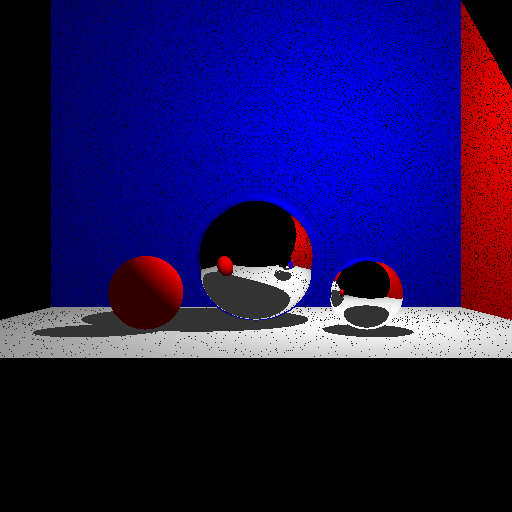
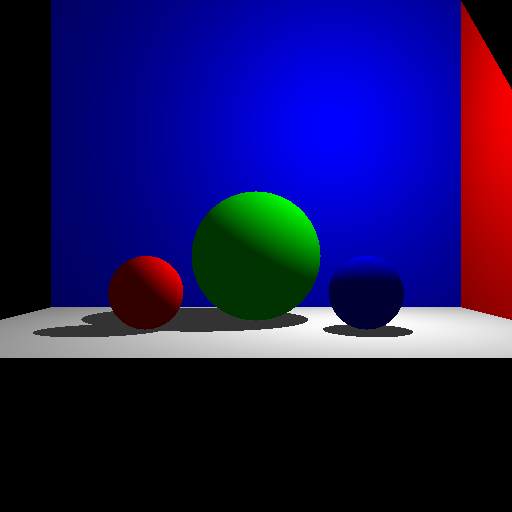
Shadows Fully Fix

diff --git a/Ray3/main.c b/Ray3/main.c
@@ -268,7 +268,7 @@ RayHit collision(RayHit* rayHitArr, Ray ray, Sphere* sphereArr, Triangle* triang
   }
   
   //realRay = rayHitArr[0];
-  
+  int secondMax;
   float t = -1;
   for(int j = 0; j < sphereArrSize + triangleArrSize; j++) {
     
@@ -279,11 +279,14 @@ RayHit collision(RayHit* rayHitArr, Ray ray, Sphere* sphereArr, Triangle* triang
     }
     
     else if(t > 0 && rayHitArr[j].t > 0 && rayHitArr[j].t < t) {
-      t = rayHitArr[j].t;
-      max = j;
+	t = rayHitArr[j].t;
+	secondMax = max;
+	max = j;
+      
     }
     
   }
+  
   realRay = rayHitArr[max];
   return realRay;
 }
@@ -292,7 +295,7 @@ float diffuseShading(float diffuse, RayHit realRay, Ray *rayArr, int i, Sphere* 
 		     Triangle* triangleArr, int sphereArrSize, int triangleArrSize,
 		     RayHit* rayHitArr) {
   diffuse = 0.2;
-  Ray ray = rayArr[i];
+  //Ray ray = rayArr[i];
   Ray rayToLight;
   for(int j = 0; j < 3; j++) {
     rayToLight.pos[j] = realRay.pos[j];
@@ -301,26 +304,33 @@ float diffuseShading(float diffuse, RayHit realRay, Ray *rayArr, int i, Sphere* 
 	    rayToLight.pos[0], rayToLight.pos[1], rayToLight.pos[2],
 	    &rayToLight.dir[0], &rayToLight.dir[1], &rayToLight.dir[2]);
   normalize(&rayToLight.dir[0], &rayToLight.dir[1], &rayToLight.dir[2]);
-  
   diffuse = dotProduct(rayToLight.dir[0], rayToLight.dir[1], rayToLight.dir[2],
 		       realRay.surfaceNorm[0], realRay.surfaceNorm[1], realRay.surfaceNorm[2]);
   if(diffuse < 0.2) {
     return diffuse = 0.2;
   }
- 
+
+  for(int j = 0; j < 3; j++) {
+    rayToLight.pos[j] = rayToLight.pos[j] + rayToLight.dir[j] * 0.0001;
+  }
+  //int isDiffuse = 1;
   realRay = collision(rayHitArr, rayToLight, sphereArr, triangleArr,
 		      sphereArrSize, triangleArrSize);
-
+  
+  
   float tlight = 0;
   tlight = sqrt( (lightPos[0] - rayToLight.pos[0]) * (lightPos[0] - rayToLight.pos[0]) +
 		 (lightPos[1] - rayToLight.pos[1]) * (lightPos[1] - rayToLight.pos[1]) +
 		 (lightPos[2] - rayToLight.pos[2]) * (lightPos[2] - rayToLight.pos[2]));
 
-  
-  if(realRay.t < tlight && realRay.t > 0) {
+  float t = realRay.t;
+  if(t < tlight && t > 0) {
+    //printf("realRay.t = %f , tlight = %f\n", realRay.t, tlight);
     return 0.2;
   }
-  
+  if(t < tlight) {
+    printf("realRay.t = %f , tlight = %f\n", realRay.t, tlight);
+  }
   return diffuse;
 }
 
@@ -382,7 +392,7 @@ int main(int argc, char *argv[]) {
       sphereArr[i].material.color[0] = 0;
       sphereArr[i].material.color[1] = 1;
       sphereArr[i].material.color[2] = 0;
-      sphereArr[i].material.reflective = 1;
+      sphereArr[i].material.reflective = 0;
     }
     
     if(i == 1) {
@@ -393,7 +403,7 @@ int main(int argc, char *argv[]) {
       sphereArr[i].material.color[0] = 0;
       sphereArr[i].material.color[1] = 0;
       sphereArr[i].material.color[2] = 1;
-      sphereArr[i].material.reflective = 1;
+      sphereArr[i].material.reflective = 0;
     }
 
     if(i == 2) {
